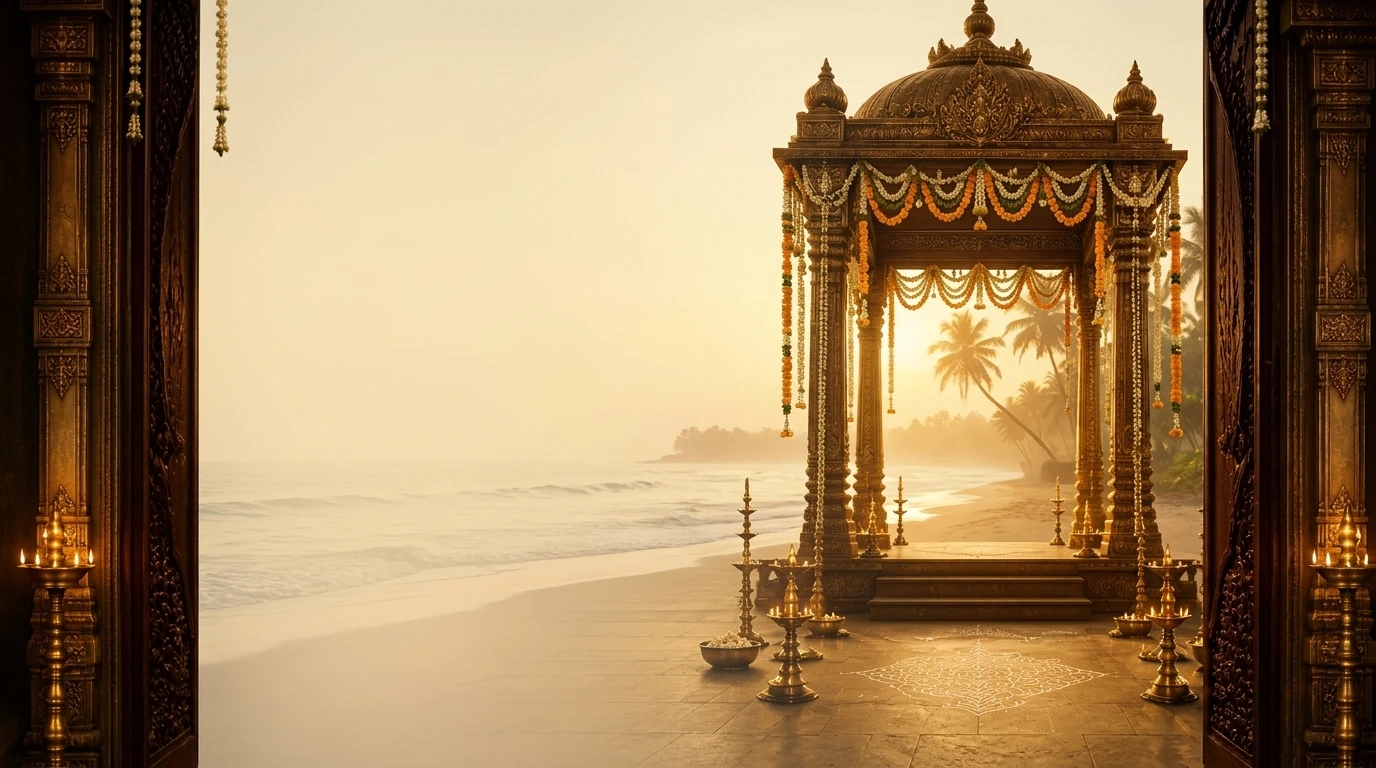
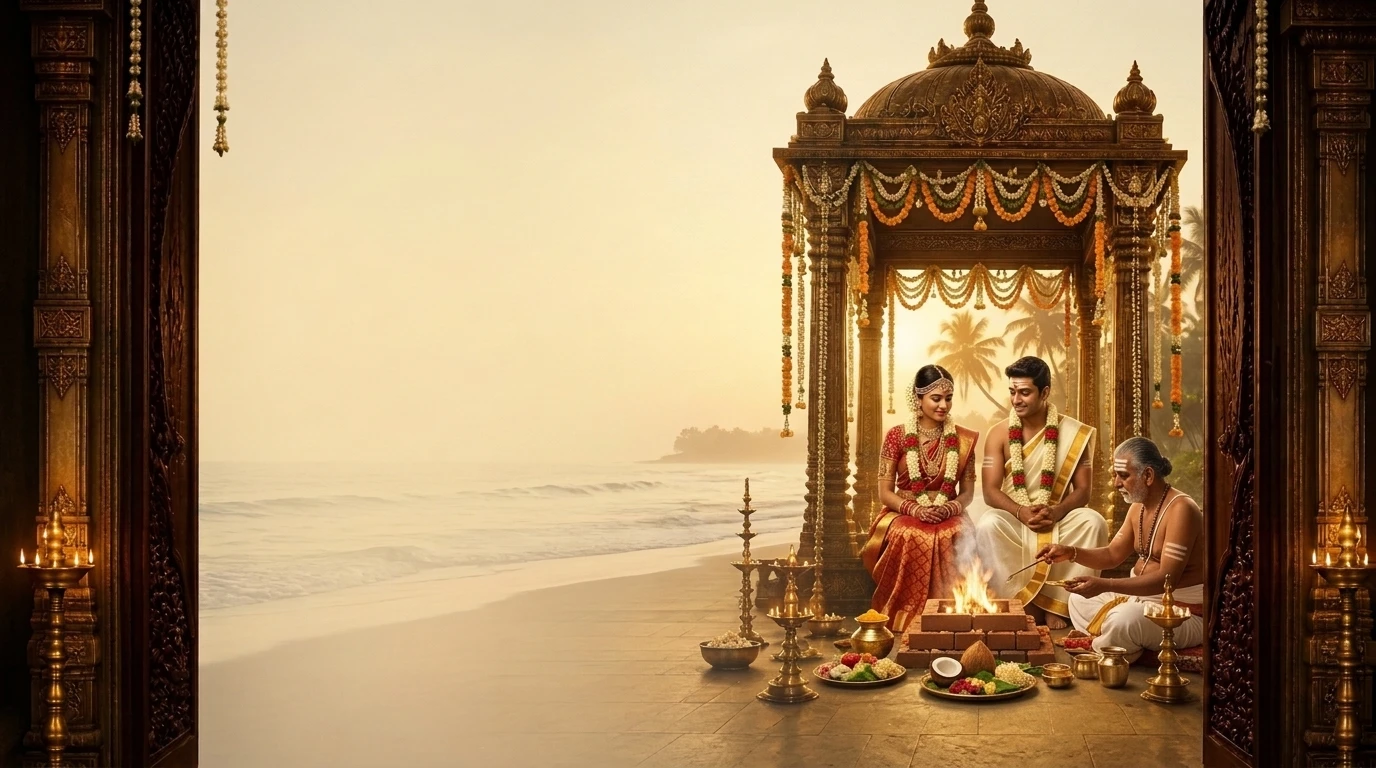
Hero: new mandap photos with the couple at the homam
On phones the photo sits at full width at the bottom with soft sky
above it, so the names stay clear of the mandap.

Claude-Session: https://claude.ai/code/session_01VfdVeCP8LTDVjVRHz23UuJ

diff --git a/css/style.css b/css/style.css
@@ -291,7 +291,14 @@ a { color: inherit; }
 .hero.has-photo .hero__inner { flex: 1; }
 @media (max-width: 899px) {
   /* keep the mandap dome clear of the countdown on shorter phones */
-  .hero.has-photo { min-height: max(100svh, 770px); }
+  /* the photo sits at the bottom at full width; extra sky above it holds the names */
+  .hero.has-photo { min-height: max(100svh, calc(179vw + 225px)); }
+  .hero.has-photo .hero__photo {
+    background:
+      linear-gradient(180deg, #f3ece0 0, #e6e1d4 calc(100% - 179vw), rgba(222, 219, 209, 0) calc(100% - 179vw + 210px)),
+      var(--hero-mobile) center bottom / 100% auto no-repeat;
+    background-color: #f3ece0;
+  }
   .hero.has-photo .hero__inner { padding: 4.2rem 2.4rem 0; }
   .hero.has-photo .hero__quote { font-size: .95rem; max-width: 18rem; margin-bottom: .7rem; }
   .hero.has-photo .hero__name { font-size: clamp(2.4rem, 12vw, 3.3rem); }

diff --git a/index.html b/index.html
@@ -17,7 +17,7 @@
   <link rel="preconnect" href="https://fonts.googleapis.com" />
   <link rel="preconnect" href="https://fonts.gstatic.com" crossorigin />
   <link href="https://fonts.googleapis.com/css2?family=Bodoni+Moda:opsz,wght@6..96,400;6..96,500&family=Cinzel:wght@400;500;600;700&family=Cormorant+Garamond:ital,wght@0,400;0,500;0,600;0,700;1,400;1,500&family=Great+Vibes&display=swap" rel="stylesheet" />
-  <link rel="stylesheet" href="css/style.css?v=3" />
+  <link rel="stylesheet" href="css/style.css?v=6" />
 </head>
 <body class="is-locked">
 
